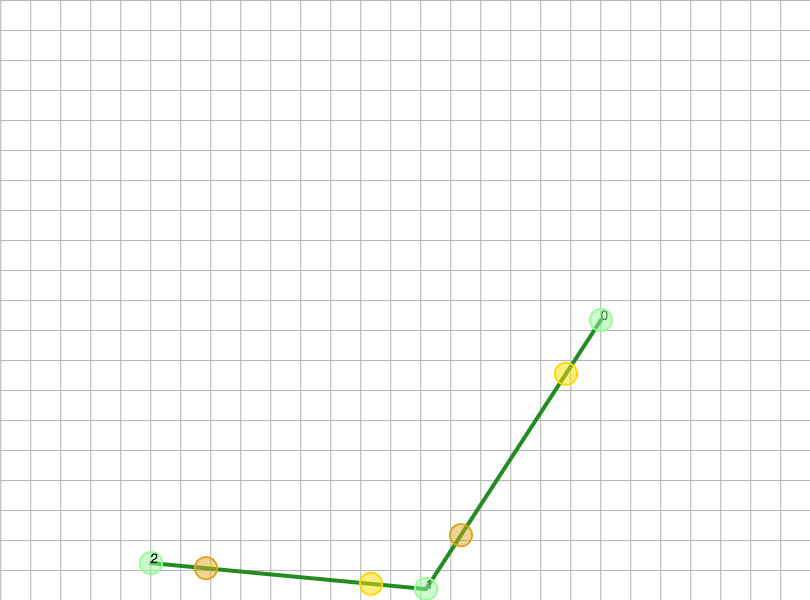
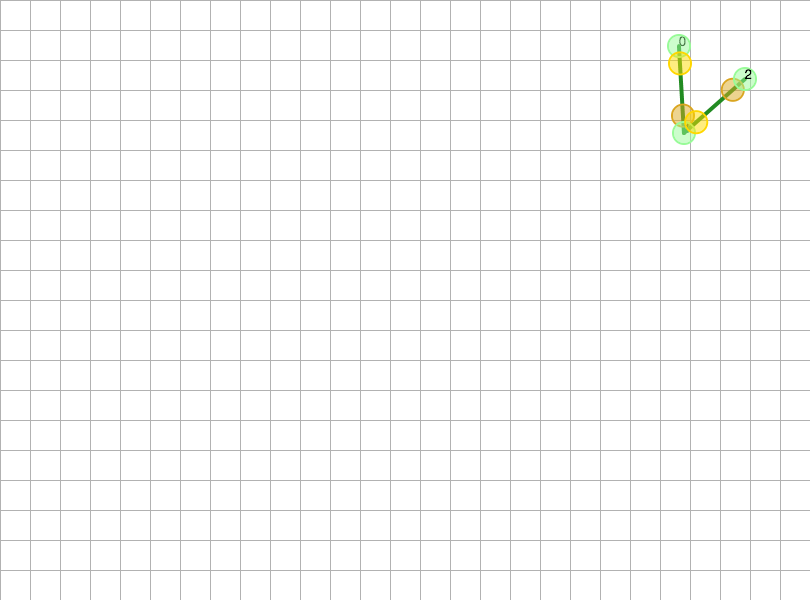
Pathing finally fully updates. There are some issues with displaying due to using stackpanes

diff --git a/src/authoringEnvironment/map/MapSidebar.java b/src/authoringEnvironment/map/MapSidebar.java
@@ -117,7 +117,6 @@ public class MapSidebar extends Sidebar {
         // createGeneralSettings();
         setTileSize();
         selectTile();
-        
 
         setPaths();
 
@@ -141,7 +140,8 @@ public class MapSidebar extends Sidebar {
     }
 
     private void selectTile () {
-        tileDisplay = new TileUpdatableDisplay(myController, Variables.PARTNAME_TILE,
+        tileDisplay =
+                new TileUpdatableDisplay(myController, Variables.PARTNAME_TILE,
                                          UPDATABLEDISPLAY_ELEMENTS,
                                          Variables.THUMBNAIL_SIZE_MULTIPLIER, getMapWorkspace());
 
@@ -179,27 +179,22 @@ public class MapSidebar extends Sidebar {
     private void remove (GameObject object,
                          UpdatableDisplay updateDisplay,
                          ObservableList<GameObject> observableList) {
-        observableList.remove(object);
-        updateDisplay.updateDisplay(observableList);
         ScaleTransition scale =
                 Scaler.scaleOverlay(1.0, 0.0, object.getRoot());
         scale.setOnFinished( (e) -> {
             if (observableList != null && observableList.contains(object)) {
-                
+                observableList.remove(object);
+                updateDisplay.updateDisplay(observableList);
                 getMapWorkspace().remove(object.getRoot());
             }
-         
-         //   object.getRoot().setVisible(false);
-         //     object.getRoot().setOpacity(0);
 
-            
-          //  getMapWorkspace().add(object.getRoot());
+            // object.getRoot().setVisible(false);
+            // object.getRoot().setOpacity(0);
+
+            // getMapWorkspace().add(object.getRoot());
         });
-        
-    
-        
 
-        //object.getRoot().setVisible(true);
+        // object.getRoot().setVisible(true);
 
     }
 
@@ -255,7 +250,7 @@ public class MapSidebar extends Sidebar {
             super.getMaps().remove(activeMap);
             super.getMaps().add(existingIndex, activeMap);
         }
-        
+
         Map<String, Object> mapSettings = activeMap.save();
         String key = activeMap.getKey();
         try {
@@ -270,11 +265,9 @@ public class MapSidebar extends Sidebar {
         catch (MissingInformationException e) {
             e.printStackTrace();
         }
-        myController.specifyPartImage(key, activeMap.getImageView().getImage()); //TODO: check
-        
+        myController.specifyPartImage(key, activeMap.getImageView().getImage()); // TODO: check
+
         getMapWorkspace().displayMessage(getResources().getString("MapSaved"), Color.GREEN);
-        
-     
 
         // saves the map to a specific key
         // checks to see if the current map already exists
@@ -319,7 +312,7 @@ public class MapSidebar extends Sidebar {
      * 
      * @throws MissingInformationException
      */
-    
+
     private void saveToXML () throws MissingInformationException {
         /*
          * for (Node map : super.getMaps()) {
@@ -417,10 +410,15 @@ public class MapSidebar extends Sidebar {
         Button deleteMapButton = new Button(getResources().getString("DeletePath"));
         deleteMapButton
                 .setOnMouseClicked(e -> {
+                    if (myPaths.contains(getMapWorkspace().getActivePath()))
+                        myPaths.remove(getMapWorkspace().getActivePath());
+                    
                     remove(getMapWorkspace().getActivePath(), null, null); // TODO: add gameobject
                 // interface
                 getMapWorkspace().deactivatePathMode();
                 getMapWorkspace().setActivePath(null);
+                pathDisplay.updateDisplay(myPaths);
+
             });
 
         HBox editMapbuttons = setEditButtons(createMapButton, saveMapButton, deleteMapButton);
@@ -433,15 +431,17 @@ public class MapSidebar extends Sidebar {
         pathNameTextField = new TextField();
         container.add(pathNameTextField, 1, 1);
 
-      /*  pathDisplay =
-                new PathUpdatableDisplay(myController, Variables.PARTNAME_PATH,
-                                         UPDATABLEDISPLAY_ELEMENTS,
-                                         Variables.THUMBNAIL_SIZE_MULTIPLIER, getMapWorkspace()); // test*/
+        /*
+         * pathDisplay =
+         * new PathUpdatableDisplay(myController, Variables.PARTNAME_PATH,
+         * UPDATABLEDISPLAY_ELEMENTS,
+         * Variables.THUMBNAIL_SIZE_MULTIPLIER, getMapWorkspace()); // test
+         */
         myPaths = FXCollections.observableArrayList();
 
         pathDisplay = new PathUpdatableDisplay(myPaths, UPDATABLEDISPLAY_ELEMENTS,
-                                                                  Variables.THUMBNAIL_SIZE_MULTIPLIER,
-                                                                  getMapWorkspace());
+                                               Variables.THUMBNAIL_SIZE_MULTIPLIER,
+                                               getMapWorkspace());
 
         /*
          * UpdatableDisplay pathDisplay =
@@ -463,17 +463,19 @@ public class MapSidebar extends Sidebar {
                                          Color.GREEN);
 
         PathView activePath = getMapWorkspace().getActivePath();
-        //TODO: don't have an active path when save twice in a row without reselecting the path
+        // TODO: don't have an active path when save twice in a row without reselecting the path
         activePath.setName(pathNameTextField.getText());
-        
-/*        double transX = activePath.getRoot().getTranslateX();
-        double transY = activePath.getRoot().getTranslateY();
-        System.out.println("transX" + transX);
-        System.out.println("transY" + transY);
-        activePath.setTranslation(transX, transY);*/
-        
+
+        /*
+         * double transX = activePath.getRoot().getTranslateX();
+         * double transY = activePath.getRoot().getTranslateY();
+         * System.out.println("transX" + transX);
+         * System.out.println("transY" + transY);
+         * activePath.setTranslation(transX, transY);
+         */
+
         Map<String, Object> mapSettings = activePath.save();
-        
+
         if (!myPaths.contains(activePath)) {
             myPaths.add(activePath);
         }
@@ -482,7 +484,7 @@ public class MapSidebar extends Sidebar {
             myPaths.remove(activePath);
             myPaths.add(existingIndex, activePath);
         }
-        
+
         String key = activePath.getKey();
         try {
             if (key == null) {
@@ -500,19 +502,19 @@ public class MapSidebar extends Sidebar {
         pathDisplay.updateDisplay(myPaths);
         remove(activePath, null, null);
         getMapWorkspace().getChildren().add(activePath.getRoot());
-        
+
         getMapWorkspace().setActivePath(null);
     }
-    
-    public void updateTileDisplay(){
+
+    public void updateTileDisplay () {
         tileDisplay.updateDisplay();
-        //tileDisplay.updateDisplay(myPaths);
+        // tileDisplay.updateDisplay(myPaths);
     }
-    
-    
-    
-   /* public UpdatableDisplay getTileDisplay(){
-        return tileDisplay;
-    }*/
+
+    /*
+     * public UpdatableDisplay getTileDisplay(){
+     * return tileDisplay;
+     * }
+     */
 
 }

diff --git a/src/authoringEnvironment/map/MapWorkspace.java b/src/authoringEnvironment/map/MapWorkspace.java
@@ -6,7 +6,6 @@ import javafx.geometry.Pos;
 import javafx.scene.Group;
 import javafx.scene.Node;
 import javafx.scene.input.MouseEvent;
-import javafx.scene.layout.AnchorPane;
 import javafx.scene.layout.StackPane;
 import javafx.scene.paint.Color;
 import javafx.scene.shape.Rectangle;
@@ -29,7 +28,7 @@ import authoringEnvironment.util.Scaler;
  * @author callie
  *
  */
-public class MapWorkspace extends AnchorPane {
+public class MapWorkspace extends StackPane {
 
     private static final Color MAP_BACKGROUND_COLOR = Color.web("2A2A29");
 
@@ -65,6 +64,8 @@ public class MapWorkspace extends AnchorPane {
 
         createDefaultMap();
         pathModeOverlay =
+                // new Rectangle(myActiveMap.getWidth()+2*Anchor.RADIUS,
+                // myActiveMap.getHeight()+2*Anchor.RADIUS);
                 new Rectangle(myActiveMap.getWidth(), myActiveMap.getHeight());
         pathModeOverlay.setOpacity(MAP_OPACITY_ACTIVATED);
         StackPane.setAlignment(pathModeOverlay, Pos.CENTER);
@@ -73,11 +74,6 @@ public class MapWorkspace extends AnchorPane {
 
     public TileMap createDefaultMap () {
         TileMap defaultMap = new TileMap(DEFAULT_MAP_ROWS, DEFAULT_MAP_COLS, DEFAULT_TILE_SIZE);
-        defaultMap.getRoot().setTranslateX(AuthoringEnvironment.getEnvironmentWidth() *
-                                           WORKSPACE_WIDTH_MULTIPLIER/12);
-        defaultMap.getRoot().setTranslateY(AuthoringEnvironment.getEnvironmentHeight() *
-                                           WORKSPACE_WIDTH_MULTIPLIER/12);
-      //  AnchorPane.setAlignment(v,Pos.CENTER_LEFT);
         updateWithNewMap(defaultMap);
         return defaultMap;
     }
@@ -103,7 +99,8 @@ public class MapWorkspace extends AnchorPane {
             remove(oldObject.getRoot());
         }
         StackPane.setAlignment(object.getRoot(), Pos.CENTER);
-        getChildren().add(object.getRoot());
+        if (!getChildren().contains(object.getRoot()))
+            getChildren().add(object.getRoot());
     }
 
     public void updateWithNewMap (GameObject object) {
@@ -117,15 +114,17 @@ public class MapWorkspace extends AnchorPane {
         ScaleTransition scale =
                 Scaler.scaleOverlay(0.0, 1.0, object.getRoot());
         scale.setOnFinished( (e) -> {
+            //TODO: figure out math placement
+            object.getRoot().setTranslateX(object.getAverageCenterPoint().getX() - AuthoringEnvironment.getEnvironmentWidth()*WORKSPACE_WIDTH_MULTIPLIER/2);
+            object.getRoot().setTranslateY(object.getAverageCenterPoint().getY() - AuthoringEnvironment.getEnvironmentHeight()*WORKSPACE_HEIGHT_MULTIPLIER/2);
+            
             update(myActivePath, object);
+
             
-           // object.getRoot().setTranslateX(object.getTranslation().getX());
-           // object.getRoot().setTranslateY(object.getTranslation().getY());
-            myActivePath = object;    
-            
+            myActivePath = object;
+
         });
-        
-        
+
     }
 
     public void createNewPath () {
@@ -142,10 +141,7 @@ public class MapWorkspace extends AnchorPane {
         Text saved = new Text(text);
         saved.setFill(color);
         saved.setFont(new Font(MESSAGE_FONT_SIZE));
-        saved.setTranslateX(AuthoringEnvironment.getEnvironmentWidth() *
-                            WORKSPACE_WIDTH_MULTIPLIER/12);
-        saved.setTranslateY(AuthoringEnvironment.getEnvironmentHeight() *
-                                           WORKSPACE_WIDTH_MULTIPLIER*.9);
+        StackPane.setAlignment(saved, Pos.BOTTOM_CENTER);
         getChildren().add(saved);
         PauseTransition pause = new PauseTransition(Duration.millis(MESSAGE_DISPLAY_DURATION));
         pause.play();

diff --git a/src/authoringEnvironment/pathing/PathView.java b/src/authoringEnvironment/pathing/PathView.java
@@ -30,7 +30,7 @@ public class PathView extends GameObject {
     private Anchor mostRecentPoint;
     private List<Anchor> myAnchors;
     private Group myRoot;
-    private Coordinate paneTranslation;
+//    private Coordinate myAverageCenterPoint;
 
     public PathView (TileMap parent) {
         myAnchors = new ArrayList<Anchor>();
@@ -43,6 +43,18 @@ public class PathView extends GameObject {
 
     public int getNumPoints () {
         return numPoints;
+    }
+    
+    public Coordinate getAverageCenterPoint(){
+        double x = 0;
+        double y = 0;
+        for (int i = 0 ; i < myAnchors.size(); i ++){
+            x += myAnchors.get(i).getCenterX();
+            y += myAnchors.get(i).getCenterX();
+        }
+        x = x / myAnchors.size();
+        y = y / myAnchors.size();
+        return new Coordinate(x, y);
     }
 
     public boolean areAnchorsSelected () {
